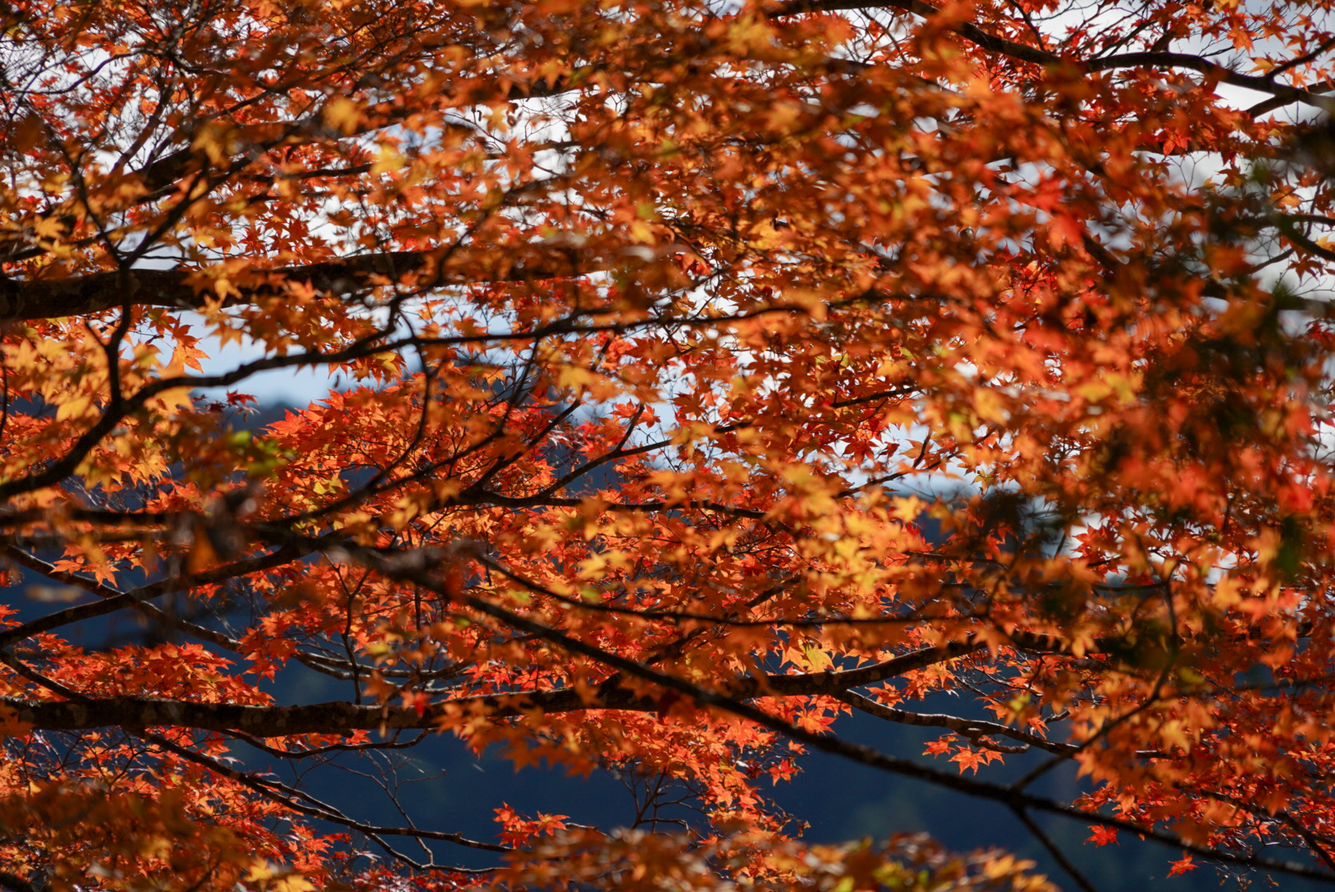
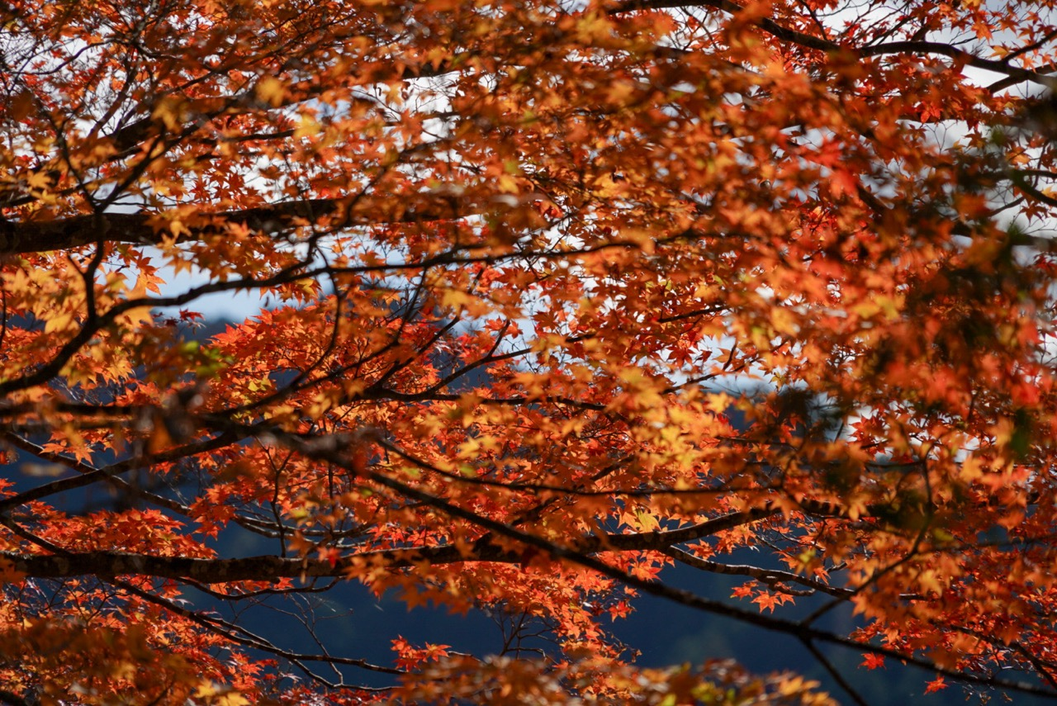
downsizing

diff --git a/my-next-site/pages/index.tsx b/my-next-site/pages/index.tsx
@@ -1,8 +1,8 @@
 import Layout from '../components/templates/Layout';
 import Hero from '../components/molecules/Hero';
-import topPic from '../public/top.png';
-import top2Pic from '../public/top2.png';
-import top3Pic from '../public/top3.png';
+import topPic from '../public/top.jpeg';
+import top2Pic from '../public/top2.jpeg';
+import top3Pic from '../public/top3.jpeg';
 
 
 

diff --git a/my-next-site/contents/works/photoCards.tsx b/my-next-site/contents/works/photoCards.tsx
@@ -1,5 +1,5 @@
 import { PhotoCard } from "../../components/molecules/PhotoCarousel";
-import pic from '../../public/top.png';
+import pic from '../../public/top.jpeg';
 import dsc00788 from '../../public/photo/DSC00788.jpeg';
 import dsc01058 from '../../public/photo/DSC01058.jpeg';
 import dsc01337 from '../../public/photo/DSC01337.jpeg';
